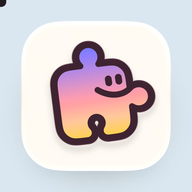
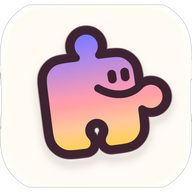
生活管家 v3.3 - 图标重新裁切：清除全部蓝色背景，保持原比例

diff --git a/sw.js b/sw.js
@@ -1,11 +1,12 @@
 // 生活管家 Service Worker - network-first + 核心资源预缓存
-const CACHE_NAME = 'life-manager-v3.2';
+const CACHE_NAME = 'life-manager-v3.3';
 const PRECACHE_ASSETS = [
   '/',
   '/index.html',
   '/manifest.json',
   '/icons/icon-192.png',
   '/icons/icon-512.png',
+  '/icons/maskable-512.png',
   '/icons/apple-touch-icon.png',
   '/icons/favicon.ico'
 ];
